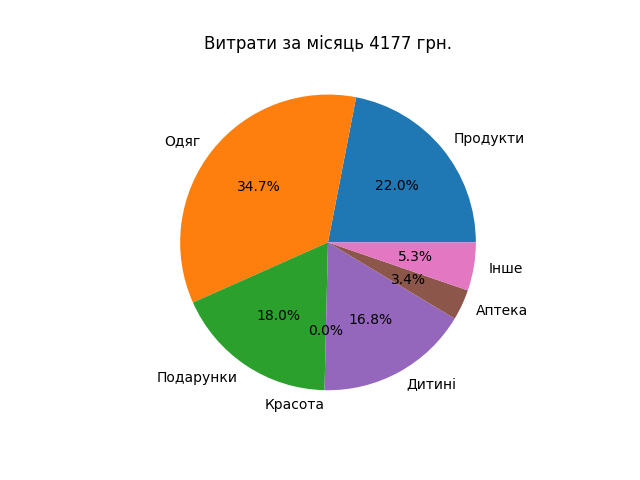
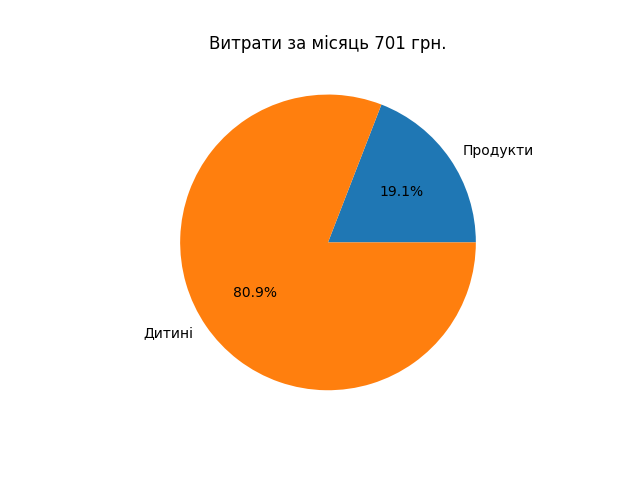
fix bags

diff --git a/bd/bdnew.py b/bd/bdnew.py
@@ -32,17 +32,20 @@ class botBDnew():
 
     def statNew():
         now = datetime.datetime.now()
-        st = ""
+        st = "Статистика:\n"
         count = Credet.select().where((Credet.date.year == now.year) & (Credet.date.month == now.month)).count()
         cost = []
+        labels = []
         if count > 0:
             for categ in ["Продукти", "Одяг", "Подарунки", "Красота", "Дитині", "Аптека", "Інше"]:
                 monthredet = 0
                 for i in Credet.select().where((Credet.date.year == now.year) & (Credet.date.month == now.month) & (Credet.category == categ)):
                     monthredet += int(i.cash)
-                cost.append(monthredet)
+                if monthredet>0:
+                    cost.append(monthredet)
+                    labels.append(categ)
                 st+=f"{categ} - {monthredet} грн.\n"
 
-        labels = "Продукти", "Одяг", "Подарунки", "Красота", "Дитині", "Аптека", "Інше"
+       # labels = "Продукти", "Одяг", "Подарунки", "Красота", "Дитині", "Аптека", "Інше"
         diagramBuilder(labels, cost)
         return st

diff --git a/bot.py b/bot.py
@@ -13,7 +13,7 @@ from bd.bdnew import botBDnew
 from loguru import logger
 from aiogram.utils.executor import start_webhook
 
-TEST_MODE = False
+TEST_MODE = True
 
 ##------------------Блок ініціалізації-----------------##
 if TEST_MODE:
